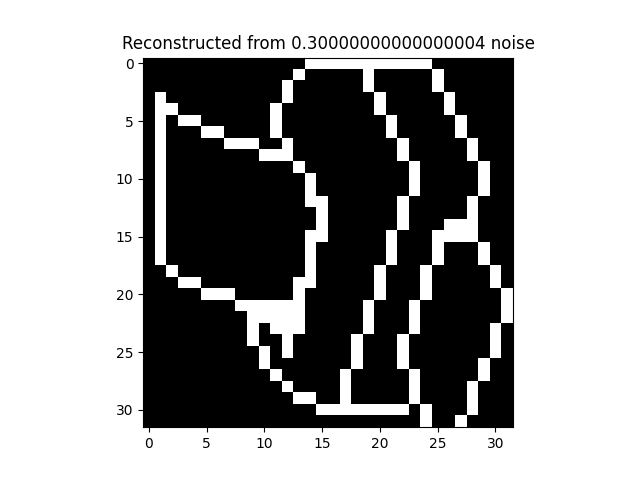
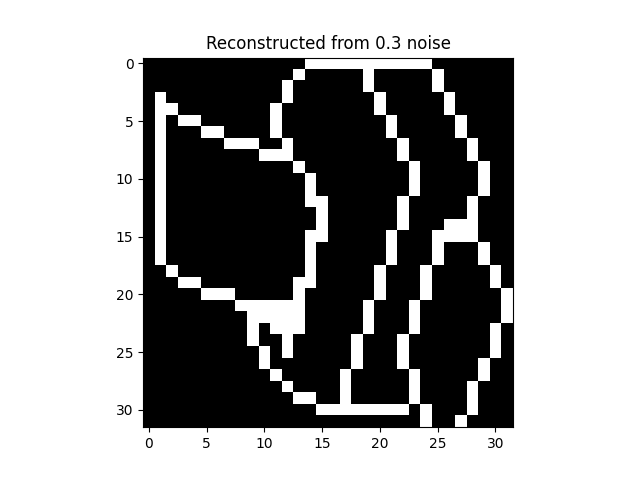
changed to smaller intervals when testing noise for task_3_4

Changed region(s): [[0.1875, 0.0625, 0.8438, 0.125]]

diff --git a/lab3/src/task_3-4.py b/lab3/src/task_3-4.py
@@ -22,10 +22,6 @@ IS_SYNC = True
 MAX_ITER = 5
 
 
-#Noise params
-NOISE_MEAN = 0
-NOISE_STD = 1
-
 
 
 #Outputs
@@ -40,11 +36,10 @@ all_data = generate_data(FILEPATH, IMG_DIM, is_training=True, num_patterns=NUM_P
 training_data = all_data[0:NUM_TRAIN_PATTERNS,:]
 
 
-
-percentage_list = np.arange(0, 1, 0.1)
+percentage_list = np.arange(0.3, 0.5, 0.01)
 for j in range(len(percentage_list)):
     percentage = np.round(percentage_list[j], 2)
-    noisy_training_data = scramble_data(training_data, percentage, NOISE_MEAN, NOISE_STD)
+    noisy_training_data = scramble_data(training_data, percentage)
 
     
     
